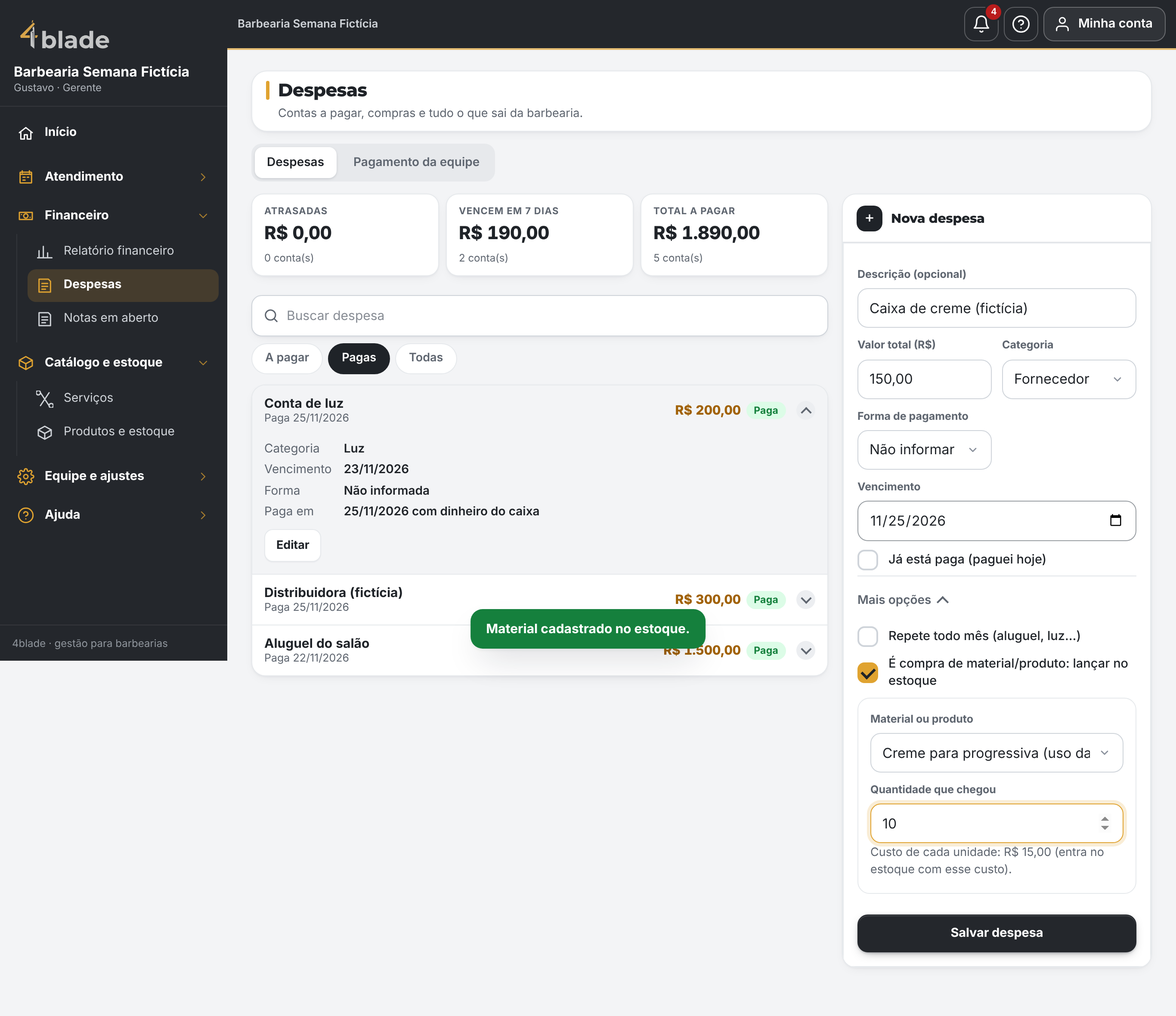
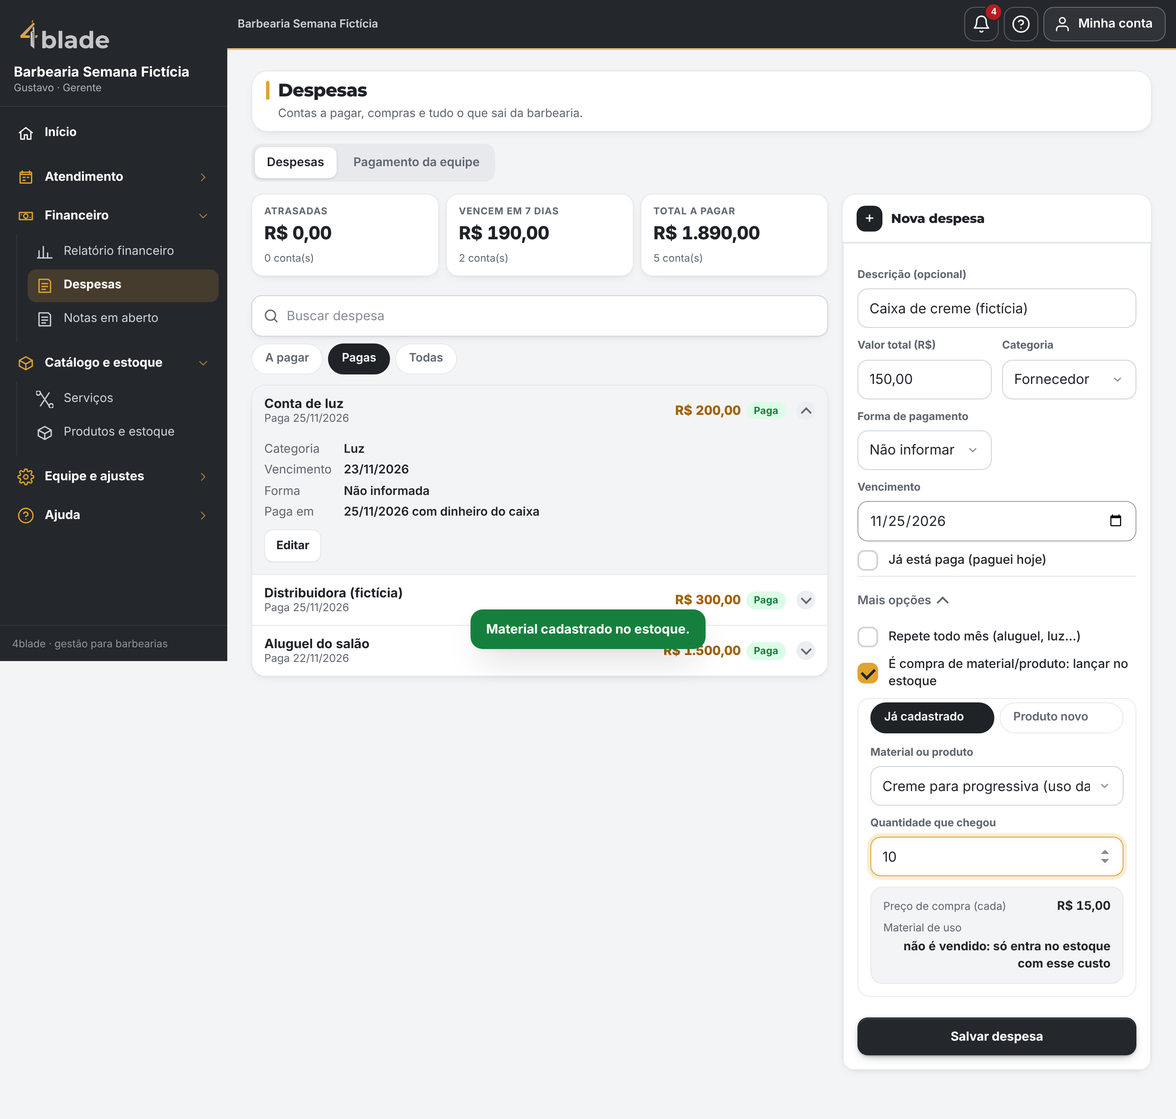
Despesa com compra: cria o produto na hora e mostra preço de compra, venda, margem e lucro
Claude-Session: https://claude.ai/code/session_01R9hMmP8YX9EsdpaJW4w2cf

diff --git a/public/app.js b/public/app.js
@@ -4841,12 +4841,24 @@ function formNovaDespesa(doEstoque) {
   const rotuloVenc = el("label", { for: "c-venc", text: "Vencimento" });
   const campoVenc = el("div", { class: "campo" }, rotuloVenc, el("input", { type: "date", id: "c-venc", name: "venc", required: true, value: hojeLocal() }));
   // Estoque: despesa que já lança o material/produto no estoque (custo de cada = valor total ÷ quantidade).
+  // Duas opções (pedido de 26/11/2026): produto JÁ cadastrado ou produto NOVO criado aqui mesmo (sem lançar duas vezes).
+  let modoEst = doEstoque.length ? "existente" : "novo";
+  const botaoModo = (modo, texto) => el("button", { type: "button", class: "chip-filtro", "data-modo-est": modo, text: texto,
+    onclick: () => { modoEst = modo; atualizar(); } });
+  const modos = el("div", { class: "chips-filtro", "data-teste": "est-modos" },
+    doEstoque.length ? botaoModo("existente", "Já cadastrado") : null, botaoModo("novo", "Produto novo"));
+  const quadroMargem = el("div", { class: "quadro-margem", "data-teste": "margem-produto", hidden: true });
   const blocoEst = el("div", { class: "servicos-escolha", "data-teste": "conta-estoque", hidden: true },
-    doEstoque.length
-      ? [campo("Material ou produto", { tag: "select", name: "estProd", opcoes: doEstoque.map(p => [p.id, `${p.nome}${p.usoInterno ? " (uso da barbearia)" : ""} · tem ${p.saldo}`]) }),
-        campo("Quantidade que chegou", { name: "estQtd", type: "number", min: "1", inputmode: "numeric" }),
-        el("p", { class: "suave", "data-teste": "custo-unidade", text: "" })]
-      : el("p", { class: "suave", text: "Nenhum material ou produto no estoque. Cadastre primeiro em Estoque → + Material de uso (ou em Produtos)." }));
+    modos,
+    el("div", { class: "est-existente", "data-teste": "est-existente", hidden: modoEst !== "existente" },
+      doEstoque.length ? campo("Material ou produto", { tag: "select", name: "estProd", opcoes: doEstoque.map(p => [p.id, `${p.nome}${p.usoInterno ? " (uso da barbearia)" : ""} · tem ${p.saldo}`]) }) : null),
+    el("div", { class: "est-novo", "data-teste": "est-novo", hidden: modoEst !== "novo" },
+      campo("Nome do produto", { name: "estNome", maxlength: "80", autocomplete: "off", placeholder: "Ex.: Pomada modeladora 120 g" }),
+      caixaMarcar("É material de uso da barbearia (não é vendido)", { name: "estUso" })),
+    campo("Quantidade que chegou", { name: "estQtd", type: "number", min: "1", inputmode: "numeric" }),
+    el("div", { class: "campo-preco-venda", "data-teste": "est-preco-venda" },
+      campo("Preço de venda de cada (R$)", { name: "estVenda", inputmode: "decimal", placeholder: "0,00" }, "Quanto você cobra do cliente por unidade.")),
+    quadroMargem);
   const mais = el("details", { class: "mais-opcoes" }, el("summary", { text: "Mais opções" }),
     caixaMarcar("Repete todo mês (aluguel, luz…)", { name: "rec" }),
     caixaMarcar("É compra de material/produto: lançar no estoque", { name: "lancaEst" }),
@@ -4880,11 +4892,35 @@ function formNovaDespesa(doEstoque) {
     if (linhaCaixa.hidden) form.comCaixa.checked = false;
     blocoEst.hidden = !form.lancaEst.checked;
     if (form.lancaEst.checked) form.rec.checked = false;
-    const out = blocoEst.querySelector("[data-teste=custo-unidade]");
-    if (out) {
-      const q = parseInt(form.estQtd?.value || "0", 10);
-      out.textContent = v && q > 0 ? `Custo de cada unidade: ${reais(Math.round(v / q))} (entra no estoque com esse custo).` : "";
+    // Opções do estoque: troca entre produto já cadastrado e produto novo; mostra preço de compra, venda, margem e lucro.
+    for (const b of modos.querySelectorAll("[data-modo-est]")) b.classList.toggle("ativo", b.dataset.modoEst === modoEst);
+    blocoEst.querySelector("[data-teste=est-existente]").hidden = modoEst !== "existente";
+    blocoEst.querySelector("[data-teste=est-novo]").hidden = modoEst !== "novo";
+    const escolhido = modoEst === "existente" ? doEstoque.find(x => x.id === form.estProd?.value) : null;
+    const uso = modoEst === "novo" ? form.estUso.checked : Boolean(escolhido?.usoInterno);
+    const campoVenda = blocoEst.querySelector("[data-teste=est-preco-venda]");
+    campoVenda.hidden = uso;
+    if (escolhido && form.estProd.dataset.visto !== escolhido.id) {   // ao trocar de produto, já vem o preço de venda cadastrado
+      form.estProd.dataset.visto = escolhido.id;
+      form.estVenda.value = escolhido.precoCentavos ? centavosParaTexto(escolhido.precoCentavos) : "";
     }
+    const q = parseInt(form.estQtd?.value || "0", 10);
+    const venda = paraCentavos(form.estVenda?.value || "");
+    const linhas = [];
+    if (v && q > 0) {
+      const custo = Math.round(v / q);
+      linhas.push(["Preço de compra (cada)", reais(custo)]);
+      if (!uso) {
+        if (venda) {
+          const lucro = venda - custo, margem = Math.round((lucro * 10000) / venda) / 100;
+          linhas.push(["Preço de venda (cada)", reais(venda)]);
+          linhas.push(["Lucro por unidade", `${reais(lucro)} · margem de ${margem.toLocaleString("pt-BR")}%`, lucro < 0 ? "ruim" : "bom"]);
+          linhas.push([`Se vender as ${q} unidades`, `lucro de ${reais(lucro * q)} (vendas de ${reais(venda * q)})`, lucro < 0 ? "ruim" : "bom"]);
+        } else linhas.push(["Preço de venda", "informe acima para ver a margem e o lucro"]);
+      } else linhas.push(["Material de uso", "não é vendido: só entra no estoque com esse custo"]);
+    }
+    quadroMargem.hidden = !linhas.length;
+    quadroMargem.replaceChildren(...linhas.map(([t, val, cls]) => el("p", { class: `margem-linha ${cls || ""}`.trim() }, el("small", { text: t }), el("strong", { text: val }))));
   };
   form.addEventListener("input", atualizar);
   form.addEventListener("change", atualizar);
@@ -4895,10 +4931,17 @@ function formNovaDespesa(doEstoque) {
       if (!v) throw new Error("Valor inválido. Exemplo: 1500,00");
       let estoque;
       if (form.lancaEst.checked) {
-        if (!doEstoque.length) throw new Error("Cadastre o material primeiro em Estoque → + Material de uso.");
         const q = parseInt(form.estQtd.value, 10);
         if (!q || q < 1) throw new Error("Informe a quantidade que chegou.");
-        estoque = { produtoId: form.estProd.value, quantidade: q };
+        const venda = paraCentavos(form.estVenda.value || "");
+        if (modoEst === "novo") {
+          const nome = form.estNome.value.trim();
+          if (nome.length < 2) throw new Error("Informe o nome do produto novo.");
+          if (!form.estUso.checked && !venda) throw new Error("Informe o preço de venda do produto novo (ou marque que é material de uso).");
+          estoque = { quantidade: q, novo: { nome, usoInterno: form.estUso.checked }, ...(venda && !form.estUso.checked ? { precoVendaCentavos: venda } : {}) };
+        } else {
+          estoque = { produtoId: form.estProd.value, quantidade: q, ...(venda ? { precoVendaCentavos: venda } : {}) };
+        }
       }
       const n = parcelas();
       const r = await api("/contas", { metodo: "POST", corpo: {
@@ -4906,7 +4949,10 @@ function formNovaDespesa(doEstoque) {
         ...(form.forma.value ? { forma: form.forma.value } : {}), ...(n > 1 ? { parcelas: n } : {}),
         ...(form.paga.checked ? { jaPaga: true, comCaixa: form.comCaixa.checked } : {}), ...(estoque ? { estoque } : {}) } });
       estadoDespesas.filtro = form.paga.checked && n === 1 ? "pagas" : "abertas";
-      avisar([r.contasCriadas > 1 ? `Despesa lançada em ${r.contasCriadas} parcelas.` : "Despesa lançada.", estoque ? "Material lançado no estoque." : null].filter(Boolean).join(" "));
+      const e = r.estoque;
+      avisar([r.contasCriadas > 1 ? `Despesa lançada em ${r.contasCriadas} parcelas.` : "Despesa lançada.",
+        e ? `${e.criado ? "Produto criado e lançado" : "Lançado"} no estoque.` : null,
+        e?.margemBp !== null && e?.margemBp !== undefined ? `Lucro de ${reais(e.lucroUnitCentavos)} por unidade (margem de ${(e.margemBp / 100).toLocaleString("pt-BR")}%).` : null].filter(Boolean).join(" "));
       telaContas();
     });
   });

diff --git a/src/gestao.js b/src/gestao.js
@@ -342,15 +342,35 @@ async function rotasContas(ctx, path, method) {
     let est = null;
     if (input.estoque) {
       if (input.recorrente) erro("Conta recorrente não lança no estoque. Lance a compra do material como conta normal.");
-      if (!validId(input.estoque.produtoId)) erro("Escolha o produto ou material do estoque.");
-      const p = await db.prepare(`SELECT p.*, COALESCE(e.saldo, 0) AS saldo FROM produtos p LEFT JOIN produto_estoque e ON e.produto_id = p.id
-                                  WHERE p.id = ? AND p.barbearia_id = ?`).bind(input.estoque.produtoId, ctx.barbeariaId).first();
-      if (!p) erro("Produto não encontrado.", 404);
-      if (!p.ativo) erro("Produto desativado. Reative antes.");
       const q = input.estoque.quantidade;
       if (!Number.isInteger(q) || q < 1 || q > 100000) erro("Quantidade para o estoque inválida.");
-      est = { p, q, c: Math.round(input.valorCentavos / q), mov: crypto.randomUUID() };
-      if (semDescricao) descricao = `Compra: ${p.nome}`.slice(0, 100);
+      const precoIn = input.estoque.precoVendaCentavos;
+      if (precoIn !== undefined && precoIn !== null && (!validCentavos(precoIn) || precoIn > 100000000)) erro("Preço de venda inválido.");
+      if (input.estoque.novo) {
+        // Produto novo criado na própria despesa (pedido de 26/11/2026): evita lançar duas vezes (cadastro + compra).
+        const n = input.estoque.novo;
+        const nome = textoLimpo(n.nome, 2, 80);
+        if (!nome) erro("Informe o nome do produto (2 a 80 letras).");
+        const usoInterno = n.usoInterno === true;
+        const preco = usoInterno ? 0 : precoIn;
+        if (!usoInterno && (!Number.isInteger(preco) || preco <= 0)) erro("Informe o preço de venda do produto novo (ou marque que é material de uso, que não é vendido).");
+        if (await db.prepare("SELECT 1 FROM produtos WHERE barbearia_id = ? AND lower(nome) = lower(?)").bind(ctx.barbeariaId, nome).first())
+          erro("Já existe um produto ou material com esse nome. Escolha ele na lista, em vez de criar de novo.", 409);
+        const idNovo = crypto.randomUUID();
+        est = { p: { id: idNovo, nome, saldo: 0, custo_medio_centavos: 0 }, q, c: Math.round(input.valorCentavos / q), mov: crypto.randomUUID(), novo: true, usoInterno, preco };
+      } else {
+        if (!validId(input.estoque.produtoId)) erro("Escolha o produto ou material do estoque.");
+        const p = await db.prepare(`SELECT p.*, COALESCE(e.saldo, 0) AS saldo, EXISTS (SELECT 1 FROM produtos_uso_interno ui WHERE ui.produto_id = p.id) AS uso_interno
+                                    FROM produtos p LEFT JOIN produto_estoque e ON e.produto_id = p.id
+                                    WHERE p.id = ? AND p.barbearia_id = ?`).bind(input.estoque.produtoId, ctx.barbeariaId).first();
+        if (!p) erro("Produto não encontrado.", 404);
+        if (!p.ativo) erro("Produto desativado. Reative antes.");
+        const usoInterno = Boolean(p.uso_interno);
+        // Preço de venda atualizado junto (só produto de venda): fica registrado no histórico de auditoria.
+        const mudaPreco = !usoInterno && Number.isInteger(precoIn) && precoIn > 0 && precoIn !== p.preco_centavos;
+        est = { p, q, c: Math.round(input.valorCentavos / q), mov: crypto.randomUUID(), usoInterno, preco: mudaPreco ? precoIn : p.preco_centavos, mudaPreco, precoAntes: p.preco_centavos };
+      }
+      if (semDescricao) descricao = `Compra: ${est.p.nome}`.slice(0, 100);
     }
     // Forma de pagamento e parcelamento (pedido de 17/11/2026): cada parcela vira uma conta, vencendo de mês em mês.
     if (!formaValida(input.forma)) erro("Forma de pagamento inválida.");
@@ -393,13 +413,26 @@ async function rotasContas(ctx, path, method) {
       estoque: est ? { produto: est.p.nome, quantidade: est.q, custoUnit: est.c } : undefined } }));
     // O material entra no estoque pelo valor TOTAL da compra, ligado à 1ª parcela.
     if (est) {
+      if (est.novo) {
+        comandos.push(
+          db.prepare(`INSERT INTO produtos (id, barbearia_id, nome, preco_centavos, estoque_minimo, mostrar_site) VALUES (?, ?, ?, ?, 0, 0)`).bind(est.p.id, ctx.barbeariaId, est.p.nome, est.preco),
+          ...(est.usoInterno ? [db.prepare("INSERT INTO produtos_uso_interno (produto_id, barbearia_id) VALUES (?, ?)").bind(est.p.id, ctx.barbeariaId)] : []),
+          auditoria(ctx, est.usoInterno ? "material_criado" : "produto_criado", est.p.id, { depois: { nome: est.p.nome, precoVenda: est.preco, origem: "despesa" } }));
+      } else if (est.mudaPreco) {
+        comandos.push(
+          db.prepare("UPDATE produtos SET preco_centavos = ?, atualizado_em = CURRENT_TIMESTAMP WHERE id = ? AND barbearia_id = ?").bind(est.preco, est.p.id, ctx.barbeariaId),
+          auditoria(ctx, "produto_preco_alterado", est.p.id, { antes: { preco: est.precoAntes }, depois: { preco: est.preco }, origem: "despesa" }));
+      }
       comandos.push(
         ...comandosEntrada(ctx, est.p, { q: est.q, c: est.c, fornecedor: textoLimpo(descricao, 2, 80) || null, id: est.mov }),
         db.prepare(`INSERT INTO contas_estoque (id, barbearia_id, conta_id, produto_id, quantidade, custo_unit_centavos, movimento_id) VALUES (?, ?, ?, ?, ?, ?, ?)`)
           .bind(crypto.randomUUID(), ctx.barbeariaId, id, est.p.id, est.q, est.c, est.mov));
     }
     await db.batch(comandos);
-    return json({ conta: contaPublica(await db.prepare(`${SELECT_CONTAS} WHERE k.id = ?`).bind(id).first(), hoje), contasCriadas: parcelas }, 201);
+    const lucroUnit = est && !est.usoInterno && est.preco > 0 ? est.preco - est.c : null;
+    return json({ conta: contaPublica(await db.prepare(`${SELECT_CONTAS} WHERE k.id = ?`).bind(id).first(), hoje), contasCriadas: parcelas,
+      ...(est ? { estoque: { produto: est.p.nome, criado: Boolean(est.novo), quantidade: est.q, custoUnitCentavos: est.c, precoVendaCentavos: est.usoInterno ? null : est.preco,
+        lucroUnitCentavos: lucroUnit, margemBp: lucroUnit === null ? null : Math.round((lucroUnit * 10000) / est.preco), lucroTotalCentavos: lucroUnit === null ? null : lucroUnit * est.q } } : {}) }, 201);
   }
   if (path === "/contas/pagar" && method === "POST") {
     const input = await readJson(request);

diff --git a/test/material-estoque.test.js b/test/material-estoque.test.js
@@ -90,4 +90,70 @@ describe("material de uso e despesa com estoque", () => {
     assert.ok(!(await get("/api/estoque", outra.ger.token)).dados.produtos.some(x => x.id === mat.id));
     assert.equal((await post("/api/estoque/ajuste", outra.ger.token, { produtoId: mat.id, motivo: "uso_interno", quantidade: -1 })).status, 404);
   });
+
+  test("produto novo na própria despesa: cria o produto, entra no estoque e devolve margem e lucro (26/11/2026)", async () => {
+    const amb = await cenario("novo");
+    const { post, get, ger, barb, cx } = amb;
+    // 12 pomadas por R$ 240,00 → custo 20,00 cada; venda 45,00 → lucro 25,00 (55,56%) por unidade; 300,00 no total
+    const c = await post("/api/contas", ger.token, { categoria: "fornecedor", valorCentavos: 24000, vencimento: HOJE,
+      estoque: { quantidade: 12, novo: { nome: "Pomada modeladora" }, precoVendaCentavos: 4500 } });
+    assert.equal(c.status, 201, JSON.stringify(c.dados));
+    assert.deepEqual(c.dados.estoque, { produto: "Pomada modeladora", criado: true, quantidade: 12, custoUnitCentavos: 2000, precoVendaCentavos: 4500,
+      lucroUnitCentavos: 2500, margemBp: 5556, lucroTotalCentavos: 30000 });
+    assert.equal(c.dados.conta.descricao, "Compra: Pomada modeladora");
+    const prod = (await get("/api/estoque", ger.token)).dados.produtos.find(x => x.nome === "Pomada modeladora");
+    assert.equal(prod.saldo, 12);
+    assert.equal(prod.precoCentavos, 4500);
+    assert.equal(prod.custoMedioCentavos, 2000);
+    assert.equal(prod.usoInterno, false);
+    // já aparece para vender (barbeiro e caixa não veem custo)
+    const visto = (await get("/api/produtos", barb.token)).dados.produtos.find(x => x.nome === "Pomada modeladora");
+    assert.ok(visto && visto.custoMedioCentavos === undefined);
+    // nome repetido: pede para escolher o produto da lista
+    assert.equal((await post("/api/contas", ger.token, { categoria: "fornecedor", valorCentavos: 1000, vencimento: HOJE,
+      estoque: { quantidade: 1, novo: { nome: "pomada MODELADORA" }, precoVendaCentavos: 100 } })).status, 409);
+    // sem preço de venda (e sem ser material de uso) → recusa, e nada é criado
+    assert.equal((await post("/api/contas", ger.token, { categoria: "fornecedor", valorCentavos: 1000, vencimento: HOJE,
+      estoque: { quantidade: 1, novo: { nome: "Shampoo sem preço" } } })).status, 400);
+    assert.ok(!(await get("/api/estoque", ger.token)).dados.produtos.some(x => x.nome === "Shampoo sem preço"));
+    // material de uso novo: sem preço de venda, sem margem
+    const m = await post("/api/contas", ger.token, { categoria: "fornecedor", valorCentavos: 5000, vencimento: HOJE,
+      estoque: { quantidade: 50, novo: { nome: "Lâmina nova", usoInterno: true } } });
+    assert.equal(m.status, 201, JSON.stringify(m.dados));
+    assert.equal(m.dados.estoque.precoVendaCentavos, null);
+    assert.equal(m.dados.estoque.margemBp, null);
+    assert.equal((await get("/api/estoque", ger.token)).dados.produtos.find(x => x.nome === "Lâmina nova").usoInterno, true);
+    // barbeiro e caixa não lançam despesa
+    for (const u of [barb, cx]) assert.equal((await post("/api/contas", u.token, { categoria: "fornecedor", valorCentavos: 1000, vencimento: HOJE,
+      estoque: { quantidade: 1, novo: { nome: "Tentativa" }, precoVendaCentavos: 100 } })).status, 403);
+    // cancelar a despesa tira o que entrou do estoque (o produto continua cadastrado)
+    assert.equal((await post("/api/contas/cancelar", ger.token, { id: c.dados.conta.id, motivo: "Lançada errado" })).status, 200);
+    assert.equal((await get("/api/estoque", ger.token)).dados.produtos.find(x => x.nome === "Pomada modeladora").saldo, 0);
+  });
+
+  test("produto já cadastrado: preço de venda atualizado junto, com auditoria; isolamento do produto novo", async () => {
+    const amb = await cenario("preco");
+    const { post, get, ger } = amb;
+    const prod = (await post("/api/produtos", ger.token, { nome: "Cera", precoCentavos: 3000, aceiteLgpd: true })).dados.produto;
+    const c = await post("/api/contas", ger.token, { categoria: "fornecedor", valorCentavos: 10000, vencimento: HOJE,
+      estoque: { produtoId: prod.id, quantidade: 10, precoVendaCentavos: 3500 } });
+    assert.equal(c.status, 201, JSON.stringify(c.dados));
+    assert.equal(c.dados.estoque.criado, false);
+    assert.equal(c.dados.estoque.custoUnitCentavos, 1000);
+    assert.equal(c.dados.estoque.lucroUnitCentavos, 2500);
+    assert.equal((await get("/api/estoque", ger.token)).dados.produtos.find(x => x.id === prod.id).precoCentavos, 3500);
+    // sem informar preço, o preço não muda
+    await post("/api/contas", ger.token, { categoria: "fornecedor", valorCentavos: 1000, vencimento: HOJE, estoque: { produtoId: prod.id, quantidade: 1 } });
+    assert.equal((await get("/api/estoque", ger.token)).dados.produtos.find(x => x.id === prod.id).precoCentavos, 3500);
+    // outra barbearia cria o "mesmo nome" sem conflito e sem ver o produto desta
+    const outra = await cenario("preco2", amb, amb.p);
+    const o = await post("/api/contas", outra.ger.token, { categoria: "fornecedor", valorCentavos: 1000, vencimento: HOJE,
+      estoque: { quantidade: 1, novo: { nome: "Cera" }, precoVendaCentavos: 2000 } });
+    assert.equal(o.status, 201, JSON.stringify(o.dados));
+    assert.equal((await get("/api/estoque", ger.token)).dados.produtos.filter(x => x.nome === "Cera").length, 1);
+    // produto de outra barbearia por id → 404 (já coberto) e preço dele não muda
+    assert.equal((await post("/api/contas", outra.ger.token, { categoria: "fornecedor", valorCentavos: 1000, vencimento: HOJE,
+      estoque: { produtoId: prod.id, quantidade: 1, precoVendaCentavos: 1 } })).status, 404);
+    assert.equal((await get("/api/estoque", ger.token)).dados.produtos.find(x => x.id === prod.id).precoCentavos, 3500);
+  });
 });

diff --git a/public/style.css b/public/style.css
@@ -2460,3 +2460,15 @@ main:has(.fc) { padding-top: 12px; }
 .hist-secao.todos .hist-linha.extra { display: grid; }
 .hist-secao > .hist-ver-todos { width: calc(100% - 28px); margin: 8px 14px 12px; }
 @media (min-width: 640px) { .hist-resumo { grid-template-columns: repeat(3, 1fr); } }
+
+/* ---- Despesa com compra de produto: opções (já cadastrado / novo) e quadro de margem (26/11/2026) ---- */
+.quadro-margem { display: grid; gap: 6px; margin-top: 12px; padding: 12px 14px; border: 1px solid var(--linha); border-radius: 14px; background: var(--neutro-2); }
+.quadro-margem[hidden] { display: none; }
+.quadro-margem .margem-linha { display: flex; flex-wrap: wrap; align-items: baseline; justify-content: space-between; gap: 2px 10px; margin: 0; }
+.quadro-margem .margem-linha small { font-size: 12.5px; color: var(--suave); }
+.quadro-margem .margem-linha strong { font-size: 14px; font-variant-numeric: tabular-nums; text-align: right; }
+.quadro-margem .margem-linha.bom strong { color: var(--ok); }
+.quadro-margem .margem-linha.ruim strong { color: var(--erro); }
+[data-teste=est-modos] { margin-bottom: 12px; }
+[data-teste=est-modos] .chip-filtro { flex: 1; text-align: center; }
+[data-teste=est-existente][hidden], [data-teste=est-novo][hidden], [data-teste=est-preco-venda][hidden] { display: none; }

diff --git a/public/sw.js b/public/sw.js
@@ -3,7 +3,7 @@
  * Guarda SOMENTE os arquivos da tela (para abrir sem internet).
  * NUNCA guarda nada de /api/ (dados e login sempre vão direto ao servidor).
  */
-const CACHE = "4blade-v76";
+const CACHE = "4blade-v77";
 
 const ARQUIVOS = [
   "/",

diff --git a/CLAUDE.md b/CLAUDE.md
@@ -277,7 +277,9 @@ App de gestão para barbearias, vendido por assinatura para várias barbearias (
 
 - 25/11/2026: **Barbeiro mexe no horário fixo, cancela, exclui e bloqueia pelo Início** (pedido do responsável). Sem migração; servidor intacto (as permissões já valiam: barbeiro só no próprio horário/bloqueio). Tela: `recarregarHorarios()` / `depoisDeHorario` (app.js): as ações da ficha (`acoesDoHorario`: Remarcar, Editar, Editar repetição, Cancelar com "também os próximos", Excluir, Vender produto) recarregam a tela onde estão — o Início do barbeiro define `depoisDeHorario = telaInicioBarbeiro` (antes mandavam para a agenda); `telaAgenda` volta ao padrão. Início ganhou `[data-teste=bloquear-inicio]` ("Bloquear horário" → `janelaBloquear`) e `[data-teste=bloqueios-hoje]` (bloqueios de hoje com "Desbloquear"). Teste: `test/navegador-inicio-barbeiro.mjs` (editar repetição, cancelar, excluir, bloquear e desbloquear sem sair de `#/inicio`; print `*-inicio-bloqueio-e-acoes`). Cache do sw `4blade-v74`. **Publicado em 25/11/2026 (autorizado, sem migração), junto com "Pagos hoje" recolhido (b8eaa12) e horário fixo de 1 ano + histórico do cliente (282cb33): versão dee8d8c4** (forblade.com.br: sw `4blade-v74`, app.js com `bloquear-inicio`).
 
-- 26/11/2026: **Caixa cabe na janela (v75) DESFEITO a pedido do responsável** ("do modo atual não está legal, prefiro o anterior"): `public/app.js` e `public/style.css` voltaram ao estado da versão dee8d8c4 (sem `ajustarAlturaCaixa`, sem a camada "cabe na janela"). Cache do sw `4blade-v76`. NÃO publicado ainda (aguardando confirmação do responsável). O layout da frente de caixa é o de 25/11 (altura `100vh − 262px`, página rola). Se quiser tentar de novo, ajustar só no notebook com um modo à parte (ex.: botão "Caber na tela").
+- 26/11/2026: **Caixa cabe na janela (v75) DESFEITO a pedido do responsável** ("do modo atual não está legal, prefiro o anterior"): `public/app.js` e `public/style.css` voltaram ao estado da versão dee8d8c4 (sem `ajustarAlturaCaixa`, sem a camada "cabe na janela"). Cache do sw `4blade-v76`. **Publicado em 26/11/2026 (autorizado): versão deba0bb6** (forblade.com.br: sw `4blade-v76`, sem `ajustarAlturaCaixa`). O layout da frente de caixa é o de 25/11 (altura `100vh − 262px`, página rola). Se quiser tentar de novo, ajustar só no notebook com um modo à parte (ex.: botão "Caber na tela").
+
+- 26/11/2026: **Despesa que compra produto: produto novo na hora + preço de venda, margem e lucro** (pedido do responsável: não lançar duas vezes). Sem migração. `POST /contas` (gestao.js): `estoque` aceita `{produtoId, quantidade, precoVendaCentavos?}` (produto já cadastrado; preço de venda informado e diferente atualiza o do produto, auditoria `produto_preco_alterado`) OU `{quantidade, novo: {nome, usoInterno?}, precoVendaCentavos}` (cria o produto — ou material de uso, sem preço — e a entrada no estoque no MESMO lote; nome repetido na barbearia → 409; produto de venda novo exige preço de venda); resposta traz `estoque {produto, criado, quantidade, custoUnitCentavos, precoVendaCentavos, lucroUnitCentavos, margemBp, lucroTotalCentavos}`. Preço de compra de cada = valor total ÷ quantidade. Tela: `formNovaDespesa` — opções `[data-modo-est=existente|novo]` (`[data-teste=est-modos]`), `#c-estNome`, `#c-estUso`, `#c-estQtd`, `#c-estVenda`, quadro `[data-teste=margem-produto]` (compra, venda, lucro por unidade com margem %, lucro se vender tudo; verde/vermelho). Testes: `test/material-estoque.test.js` (+2: produto novo, material novo, preço, nome repetido, permissões, isolamento, cancelar) + `test/navegador-e4.mjs` (print `*-despesa-produto-novo-margem`). Cache do sw `4blade-v77`. NÃO publicado ainda.
 
 ## Versão de teste publicada (Cloudflare) — NÃO atualizar mais (decisão de 16/11/2026)
 - Endereço: https://4blade-teste.terraplanagem.workers.dev (Worker `4blade-teste`, banco D1 `4blade-db-teste`, região ENAM). Dados FICTÍCIOS apenas.
